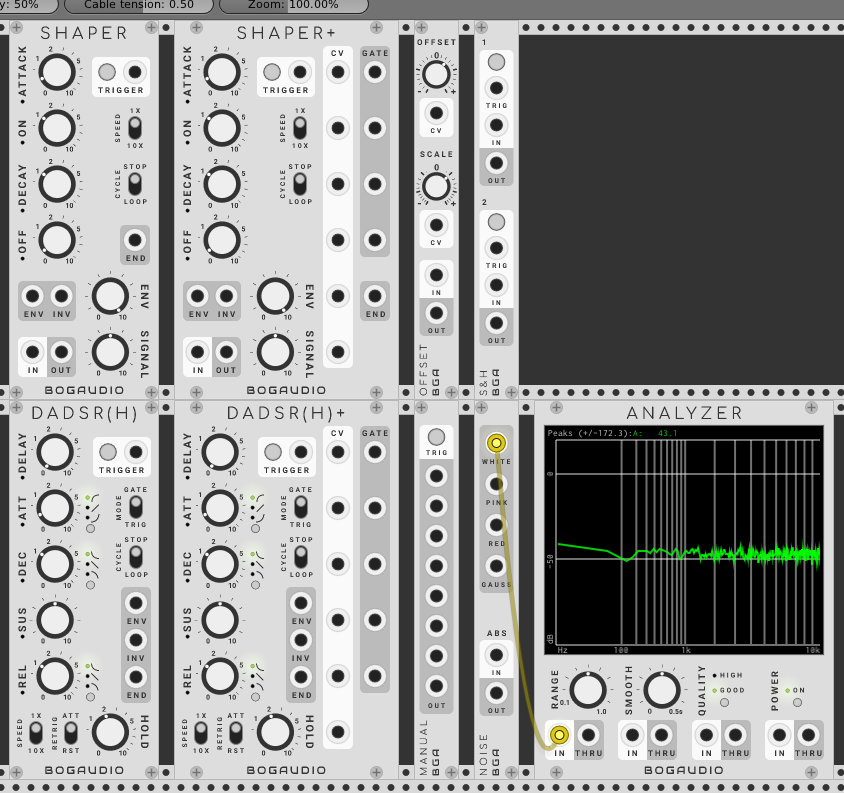
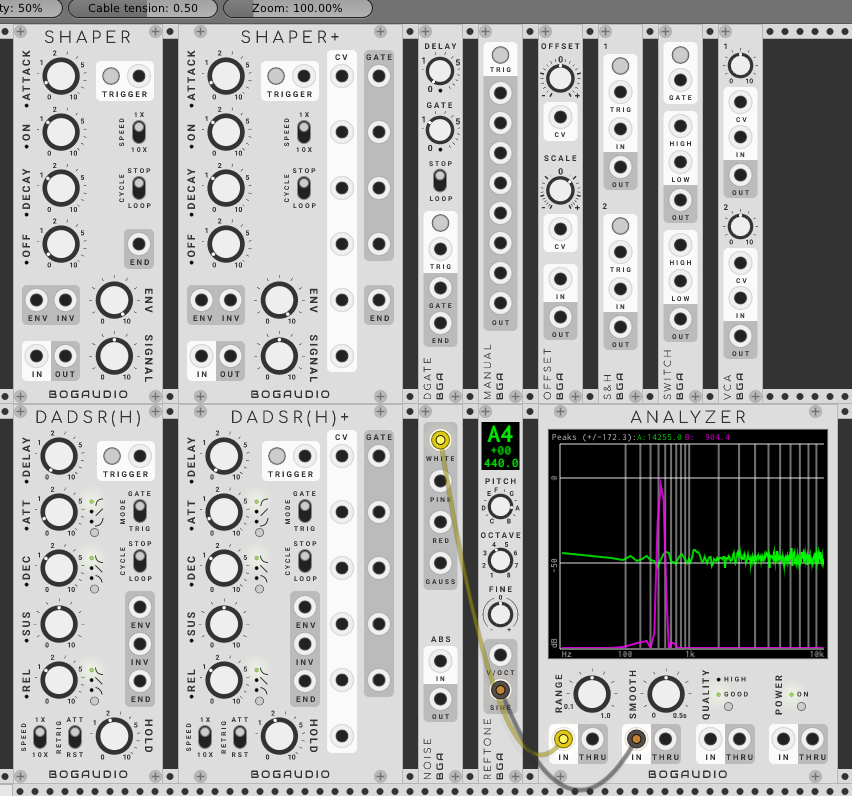
Update screenshots and README.

diff --git a/README.md b/README.md
@@ -86,6 +86,10 @@ A collection of compact 3-HP utility modules.
 
 ![Utilities screenshot](doc/www/utilities.png)
 
+#### DGATE
+
+A triggerable gate with duration up to 10 seconds, with an optional pre-delay of up to 10 seconds.  A trigger pulse is output at END when a delay/gate cycle ends.  If the STOP/LOOP switch is set to LOOP, or if the trigger is high when the cycle ends, the cycle repeats.
+
 #### MANUAL
 
 A manual trigger/gate with 8 outputs.  A constant high value is sent from each output for as long as the TRIG button is held.
@@ -100,9 +104,31 @@ Additionally, NOISE has an absolute value circuit.  Patch audio into ABS to get 
 
 An offset and scaler.  The OFFSET and SCALE knobs have CV inputs.  With an input signal, output is `(input + offset) * scale`.  With no input connected, the output is constant in the value of `offset * scale`.
 
+#### REFTONE
+
+A tuner that outputs a selectable (Western, chromatic) pitch as CV (1v/octave, for controlling an oscillator) or as a pure sine tone.  The base pitch is selected with the PITCH and OCTAVE knobs, while the FINE knob allows the output to be fine-tuned up or down a full semitone.  The LED-style display indicates the selected pitch, octave and fine tuning (in cents), and the corresponding frequency (in hertz).
+
 #### S&H
 
 A dual sample-and-hold.  Sampling may be triggered by CV or button press.  If nothing is connected to an IN port, sampling for that channel is from an internal white noise source (range 0-10).
+
+#### SWITCH
+
+A signal-routing module with two through channels.  If the button is held or the GATE input is high, the HIGH input for each channel is routed to the corresponding OUT.  Otherwise, each LOW input is routed to each OUT.
+
+#### VCA
+
+A compact, two-channel VCA.
+
+## Other Notes
+
+#### <a name="resumeloop"></a> Loop Behavior on Patch Load
+
+Modules Shaper, Shaper+, DADSRH, DADSHR+ and DGATE can each be set to loop.  As of release 0.5.3, these modules will automatically being running (looping) when the patch loads if they were looping when the patch was saved.  (Previously, they would require a trigger to resume looping.)
+
+This behavior can be disabled on a per-module basis by right-clicking the module and unchecking "Resume Loop on Load".
+
+![Resume Loop on Load menu screenshot](doc/www/resumeloop.png)
 
 ## Issues and Feedback
 
